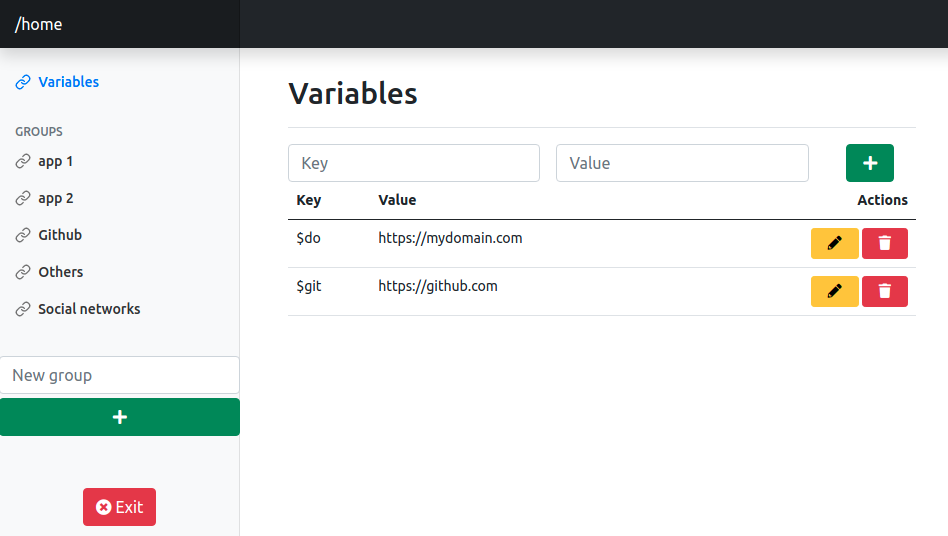
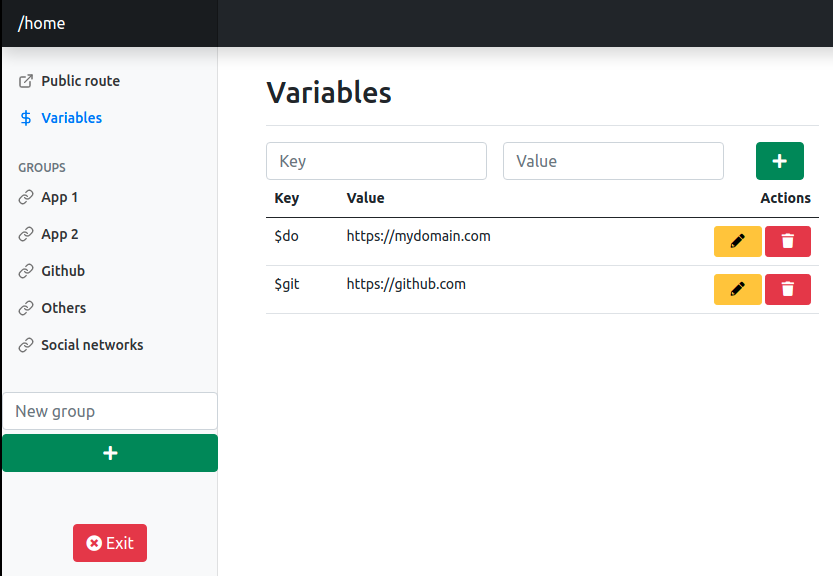
README.md

diff --git a/README.md b/README.md
@@ -4,15 +4,18 @@
 ![alt text](img/1.png)
 ![alt text](img/2.png)
 ![alt text](img/3.png)
+Public route:
+![alt text](img/4.png)
 
 # Features list
 - For local application running, you need just two dependencies - installed `docker` and `docker-compose` (`make` is optional, but strongly recommended)
 - Application built with Laravel PHP + bootstrap + mysql + nginx
 - One only user (admin)
+- /public route to see the links marked as public (without login)
 - Create link groups
 - Create variables for the links
     - For example, we can save the domain https://github.com domain as `$git`, so all the links that refer to this domain, we will only have to save the link as: `$git/trebsoj`.
-
+    
 # How to use
 
 **1. Clone repository**
